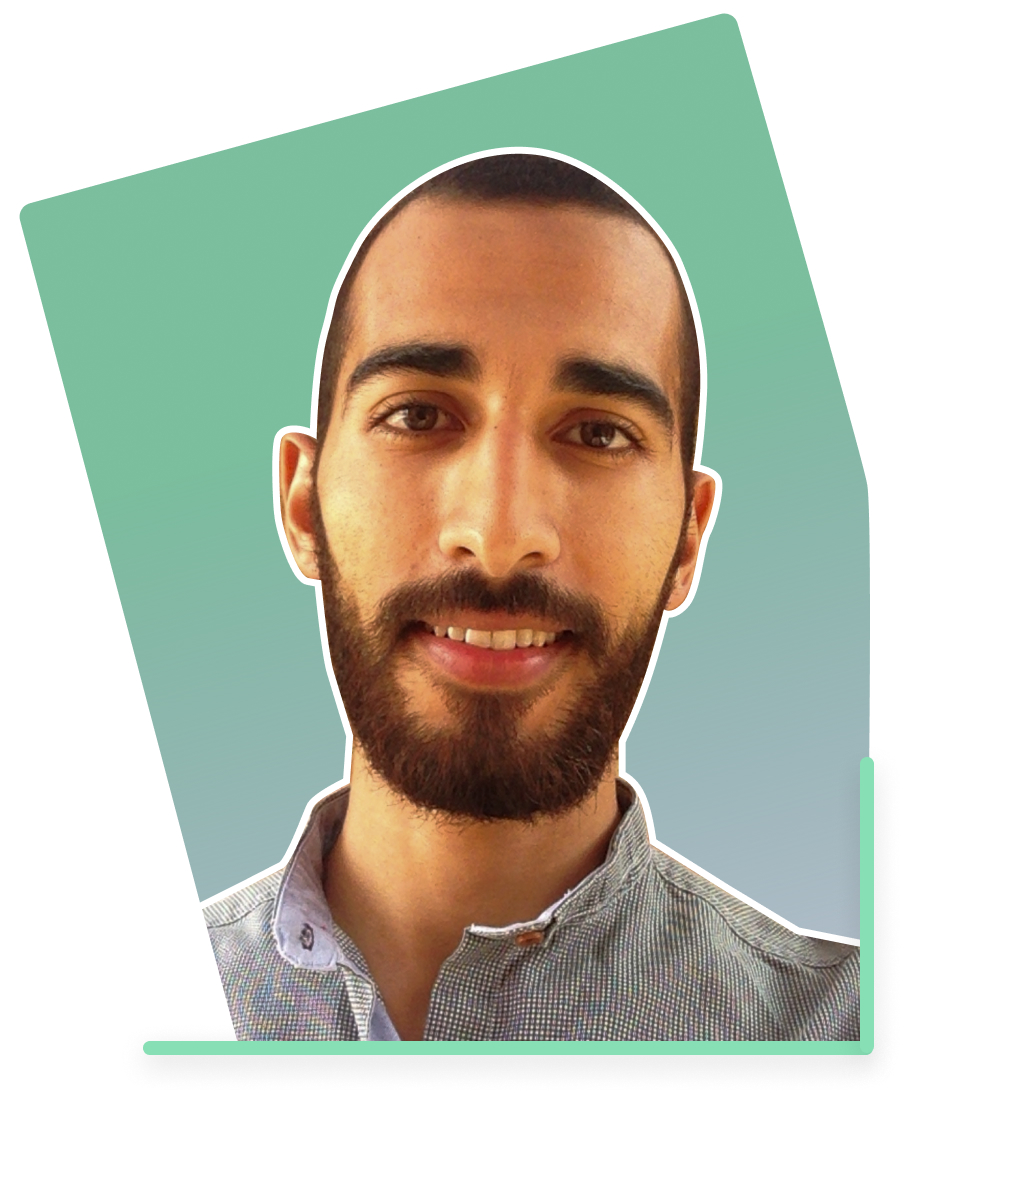
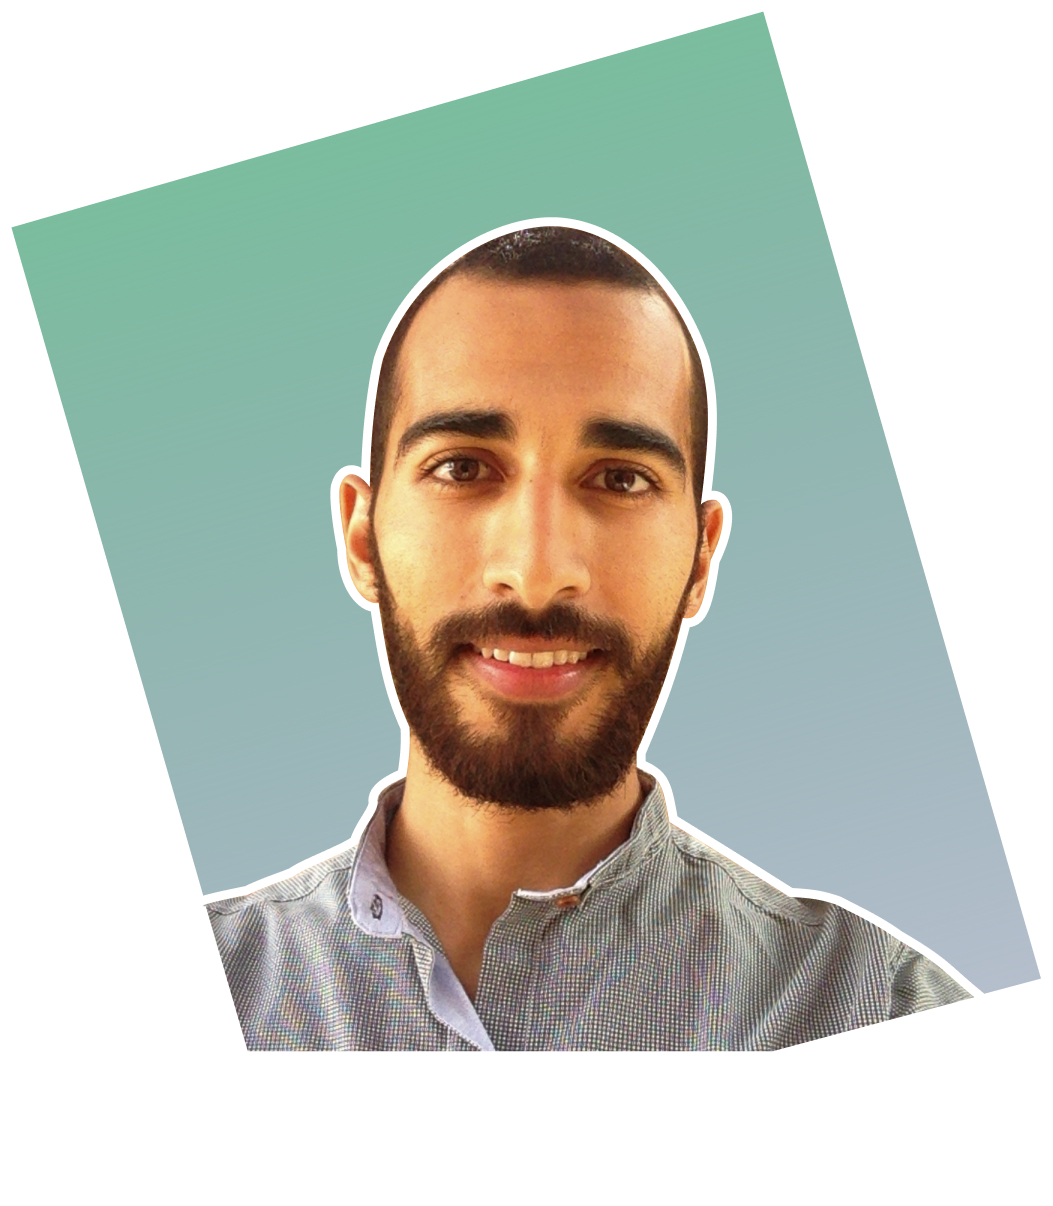
update about styles and update some global styles

diff --git a/src/styles/pages/_about.scss b/src/styles/pages/_about.scss
@@ -1,18 +1,37 @@
 #about {
-	display: flex;
+	background: lightblue;
+	display: grid;
+	grid-template-columns: repeat(2, 1fr);
 	align-items: center;
+	align-content: center;
+	justify-items: center;
+	grid-gap: 2vw;
 
 	p {
-		line-height: 1.9;
-		max-width: 400px;
-		// padding-left: 50px;
+		line-height: 2;
+		max-width: 435px;
 	}
 
-	div {
+	img {
+		width: 38vw;
+		max-width: 435px;
+		min-width: 250px;
+	}
+
+	@media (max-width: 1050px) {
+		p {
+			width: 38vw;
+		}
+	}
+
+	@media (max-width: 850px) {
+		grid-template-columns: repeat(1, 1fr);
 
 		img {
-			height: 500px;
-			margin-top: -100px;
+			width: 80vw;
+		}
+		p {
+			width: 80vw;
 		}
 	}
 }

diff --git a/src/styles/global/_nav.scss b/src/styles/global/_nav.scss
@@ -7,7 +7,6 @@ nav {
 	background: white;
 
 	ul {
-		list-style-type: none;
 		padding: 40px 40px 40px 0px;
 		height: 100%;
 		display: flex;
@@ -22,8 +21,7 @@ nav {
 			opacity: 0.5;
 			border-left: 5px solid white;
 			a {
-				font-size: 20px;
-				text-decoration: none;
+				font-size: 18px;
 				font-weight: 500;
 				color: $c-primary;
 			}

diff --git a/src/index.html b/src/index.html
@@ -27,9 +27,7 @@
     </section>
 
     <section id="about" class="page">
-      <div>
-        <img src="img/profile.jpg" alt="Omar Elhwarii Photo">
-      </div>
+      <img src="img/profile.jpg" alt="Omar Elhwarii Photo">
       <p>
         Hi there,
         I’m a dentist, self taught developer and designer. <br>

diff --git a/src/styles/global/_base.scss b/src/styles/global/_base.scss
@@ -1,3 +1,7 @@
+::selection {
+	background: lighten($c-secondary, 20);
+}
+
 * {
 	margin: 0;
 	padding: 0;
@@ -8,5 +12,13 @@ body {
 	font-family: $f-primary;
 	color: $c-primary;
 	font-size: 16px;
-	padding: 15px;
+	margin: 15px;
+}
+
+a {
+	text-decoration: none;
+}
+
+ul {
+	list-style-type: none;
 }

diff --git a/src/styles/pages/_page.scss b/src/styles/pages/_page.scss
@@ -1,10 +1,11 @@
 .page {
-  min-height: 900px;
-  height: 100vh; 
-  margin-left: 200px;
-  width: 80vw;
+	min-height: 900px;
+  height: 100vh;
+  max-width: 1010px;
+	margin-left: 200px;
 
 	@media (max-width: 1050px) {
-    margin-left: 0;
-  }
+		margin-left: 0;
+		align-items: center;
+	}
 }

diff --git a/src/styles/pages/_home.scss b/src/styles/pages/_home.scss
@@ -3,7 +3,7 @@
 	flex-direction: column;
 	justify-content: center;
 	align-items: center;
-  min-height: 700px;
+  min-height: 900px;
   height: 100vh; 
 
 	h1 {

diff --git a/src/styles/pages/_main.scss b/src/styles/pages/_main.scss
@@ -1,0 +1,8 @@
+#main {
+  display: flex;
+  flex-direction: column;
+
+	@media (max-width: 1050px) {
+    align-items: center;
+  }
+}
